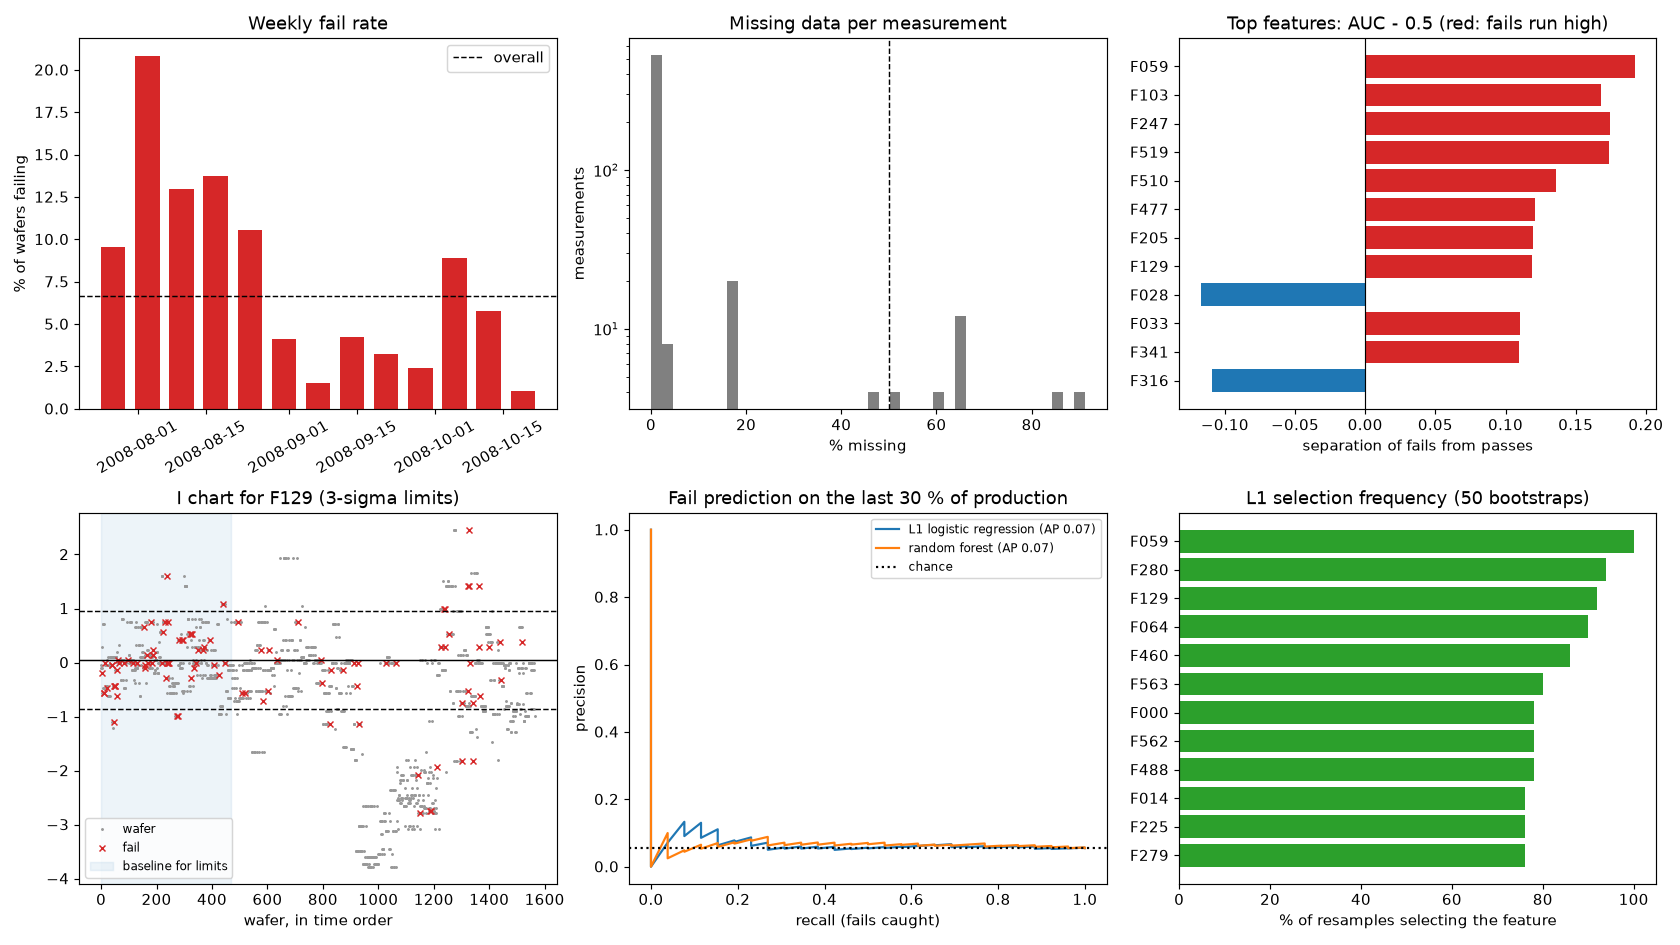
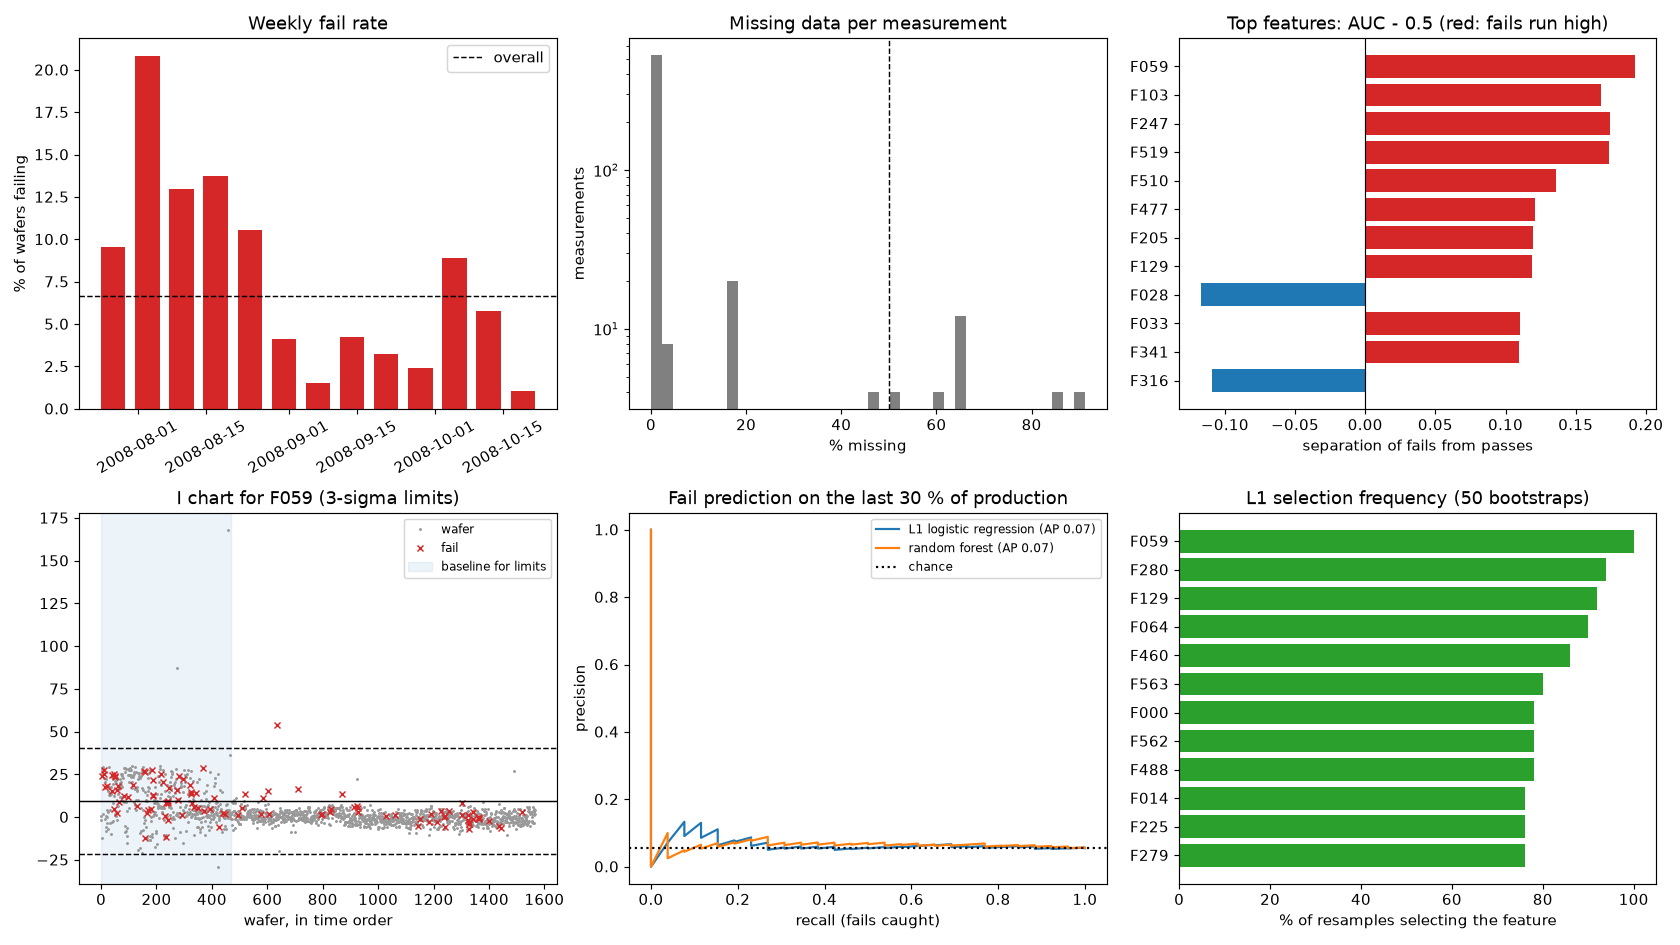
Use screening only when models have no forward skill; drift notes

diff --git a/run_all.py b/run_all.py
@@ -55,6 +55,13 @@ for c in top:
         fo = "-" if pd.isna(r.fail_rate_ooc) else f"{100 * r.fail_rate_ooc:.1f} %"
         print(f"  {c:8s} {100 * r.ooc_rate:13.1f} % {fo:>19s} {100 * r.fail_rate_in:19.1f} %")
 
+drifted = [c for c in top if c in P.index and P.loc[c, "ooc_rate"] > 0.25]
+if drifted:
+    print(f"  {len(drifted)} of the top {len(top)} are out of control on more than 25 % of later wafers: the process moved away "
+          "from its baseline after the first 30 % of production")
+early, late = y.iloc[: int(0.3 * len(y))].mean(), y.iloc[int(0.3 * len(y)):].mean()
+print(f"  fail rate in the baseline period {100 * early:.1f} % vs. after it {100 * late:.1f} %")
+
 print("\n[4  Predicting fails: train on the first 70 % of production, test on the last 30 %]")
 cut = int(0.7 * len(y))
 Xtr, Xte, ytr, yte = X[cols].iloc[:cut], X[cols].iloc[cut:], y.iloc[:cut], y.iloc[cut:]
@@ -74,16 +81,28 @@ sel = A.bootstrap_selection(Xtr, ytr, cols, n_boot=args.boot)
 print(f"  L1 selection stability over {args.boot} bootstrap resamples: "
       + ", ".join(f"{c} {100 * v:.0f} %" for c, v in sel.head(6).items()))
 
-print("\n[5  Suspects: flagged by at least two of: screening q < 0.05, L1 picked in >= 50 % of bootstraps, permutation importance >= 10 % of the top]")
+best = res[best_name]
+skilful = best["pr_auc"] >= 1.5 * yte.mean() and best["roc_auc"] >= 0.6
+if not skilful:
+    print(f"  the models barely beat chance on later wafers (best ROC-AUC {best['roc_auc']:.2f}, PR-AUC {best['pr_auc']:.3f} "
+          f"vs {yte.mean():.3f}): pass/fail patterns from early production do not carry forward, so the model-based "
+          "rankings are not used as evidence below")
+
+if skilful:
+    print("\n[5  Suspects: flagged by at least two of: screening q < 0.05, L1 picked in >= 50 % of bootstraps, permutation importance >= 10 % of the top]")
+else:
+    print("\n[5  Suspects: screening only (q < 0.05, top 10 by p), because the models had no forward skill]")
 votes = {}
-for c in S[S["q"] < 0.05]["feature"].head(20):                 # significant after FDR correction
+for c in S[S["q"] < 0.05]["feature"].head(20 if skilful else 10):   # significant after FDR correction
     votes.setdefault(c, []).append("screening")
-for c in sel[sel >= 0.5].index:                                   # picked in at least half the bootstraps
-    votes.setdefault(c, []).append("stable L1")
-for c, v in imp.items():                                          # at least 10 % of the top importance
-    if v > 0 and v >= 0.1 * imp.max():
-        votes.setdefault(c, []).append("permutation")
-suspects = sorted([c for c, v in votes.items() if len(v) >= 2], key=lambda c: (-len(votes[c]), S.set_index("feature").loc[c, "p"] if c in set(S["feature"]) else 1))
+if skilful:
+    for c in sel[sel >= 0.5].index:                               # picked in at least half the bootstraps
+        votes.setdefault(c, []).append("stable L1")
+    for c, v in imp.items():                                      # at least 10 % of the top importance
+        if v > 0 and v >= 0.1 * imp.max():
+            votes.setdefault(c, []).append("permutation")
+need = 2 if skilful else 1
+suspects = sorted([c for c, v in votes.items() if len(v) >= need], key=lambda c: (-len(votes[c]), S.set_index("feature").loc[c, "p"] if c in set(S["feature"]) else 1))
 St = S.set_index("feature")
 rho = X[suspects].corr(method="spearman") if suspects else None
 proxy = {}
@@ -98,7 +117,7 @@ for k, c in enumerate(suspects):
 primary = [c for c in suspects if c not in proxy]
 print(f"  independent suspects after grouping correlated sensors: {', '.join(primary) if primary else 'none'}")
 if not suspects:
-    print("  none: no feature was flagged by two methods")
+    print("  none: no feature met the rule")
 
 FAILED = False
 planted = Path(args.data) / "planted.json"
@@ -115,14 +134,18 @@ lines = [f"# SECOM yield root-cause report", "",
          f"{cs['kept']} of {cs['features']} measurements usable after removing {cs['too_missing']} mostly-missing and {cs['constant']} constant ones.", "",
          "## In plain words", ""]
 if primary:
-    lines += [f"Out of {len(S)} measurements, **{len(primary)}** independent ones stand out by more than one method: "
+    lines += [f"Out of {len(S)} measurements, **{len(primary)}** independent ones stand out "
+              + ("by more than one method: " if skilful else "in the pass/fail screening: ")
               + ", ".join(f"**{c}** (fails run {St.loc[c, 'fails_run']})" for c in primary) + ". "
               + (f"{len(proxy)} more move together with these and are probably the same causes seen by another sensor. " if proxy else "")
               + 
               "These are the parameters to check first in the tool logs and maintenance records for the affected period. "
               "This is statistical evidence, not proof of cause; a controlled experiment (DOE) on the suspected parameters would confirm it.", ""]
 lines += [f"A model trained on the first 70 % of production and tested on the last 30 % ranks wafers so that flagging the top 10 % "
-          f"catches **{100 * res[best_name]['recall_at_10']:.0f} %** of fails ({best_name}, PR-AUC {res[best_name]['pr_auc']:.3f} vs {yte.mean():.3f} for chance).", "",
+          f"catches **{100 * res[best_name]['recall_at_10']:.0f} %** of fails ({best_name}, PR-AUC {res[best_name]['pr_auc']:.3f} vs {yte.mean():.3f} for chance)."
+          + ("" if skilful else " That is close to chance: the patterns behind early failures did not carry forward"
+             + (", and the SPC charts show the process moving after the baseline period. Re-baselining the control limits and "
+                "monitoring the suspects going forward is the practical next step." if drifted else ".")), "",
           "## Top features by pass/fail screening", "", "| Feature | p | q (FDR) | AUC | Fails run |", "|---|---|---|---|---|"]
 lines += [f"| {r.feature} | {r.p:.2e} | {r.q:.3f} | {r.auc:.3f} | {r.fails_run} |" for _, r in S.head(10).iterrows()]
 Path("report.md").write_text("\n".join(lines) + "\n")

diff --git a/README.md b/README.md
@@ -57,6 +57,8 @@ Root-cause analysis on the **UCI SECOM dataset**: 1,567 wafers from a real semic
   F129              58.4 %               3.8 %                 4.8 %
   F028              63.2 %               3.9 %                 4.7 %
   F033              28.5 %               6.1 %                 3.4 %
+  8 of the top 10 are out of control on more than 25 % of later wafers: the process moved away from its baseline after the first 30 % of production
+  fail rate in the baseline period 12.3 % vs. after it 4.2 %
 
 [4  Predicting fails: train on the first 70 % of production, test on the last 30 %]
   train 1096 wafers (78 fails), test 471 wafers (26 fails); a random guess scores PR-AUC 0.055
@@ -64,20 +66,20 @@ Root-cause analysis on the **UCI SECOM dataset**: 1,567 wafers from a real semic
   random forest            ROC-AUC 0.569  PR-AUC 0.069  fails caught when flagging the top 10 % of wafers: 12 %
   permutation importance (L1 logistic regression, drop in PR-AUC when a feature is shuffled): F129 +0.014, F279 +0.006, F090 +0.005, F510 +0.003, F117 +0.003, F460 +0.003
   L1 selection stability over 50 bootstrap resamples: F059 100 %, F280 94 %, F129 92 %, F064 90 %, F460 86 %, F563 80 %
+  the models barely beat chance on later wafers (best ROC-AUC 0.53, PR-AUC 0.070 vs 0.055): pass/fail patterns from early production do not carry forward, so the model-based rankings are not used as evidence below
 
-[5  Suspects: flagged by at least two of: screening q < 0.05, L1 picked in >= 50 % of bootstraps, permutation importance >= 10 % of the top]
-  F129: screening, stable L1, permutation; fails run high (median 0 vs -0.1419), AUC 0.619
-  F059: screening, stable L1; fails run high (median 5.522 vs 0.7223), AUC 0.692
-  F510: screening, permutation; fails run high (median 58.23 vs 46.38), AUC 0.636
-  F033: screening, stable L1; fails run high (median 8.894 vs 8.766), AUC 0.611
-  F316: screening, permutation; fails run low (median 5.531 vs 5.862), AUC 0.391
-  F021: screening, stable L1; fails run high (median -5447 vs -5529), AUC 0.603
-  F460: stable L1, permutation; fails run high (median 27.76 vs 26.08), AUC 0.576
-  F279: stable L1, permutation; fails run low (median 0.03385 vs 0.0373), AUC 0.430
-  F090: stable L1, permutation; fails run low (median 8746 vs 8836), AUC 0.437
-  F117: stable L1, permutation; fails run low (median 58.46 vs 58.55), AUC 0.445
-  F486: stable L1, permutation; fails run high (median 267.8 vs 249), AUC 0.542
-  independent suspects after grouping correlated sensors: F129, F059, F510, F033, F316, F021, F460, F279, F090, F117, F486
+[5  Suspects: screening only (q < 0.05, top 10 by p), because the models had no forward skill]
+  F059: screening; fails run high (median 5.522 vs 0.7223), AUC 0.692
+  F103: screening; fails run high (median -0.0082 vs -0.0102), AUC 0.668
+  F247: screening; fails run high (median 0.0421 vs 0.0262), AUC 0.675
+  F519: screening; fails run high (median 9.052 vs 5.633), AUC 0.674; moves with F247 (Spearman +1.00), likely the same underlying cause
+  F510: screening; fails run high (median 58.23 vs 46.38), AUC 0.636; moves with F103 (Spearman +0.63), likely the same underlying cause
+  F477: screening; fails run high (median 6.12 vs 5.191), AUC 0.621
+  F205: screening; fails run high (median 9.16 vs 7.66), AUC 0.619; moves with F477 (Spearman +1.00), likely the same underlying cause
+  F129: screening; fails run high (median 0 vs -0.1419), AUC 0.619
+  F028: screening; fails run low (median 68.16 vs 69.24), AUC 0.383
+  F033: screening; fails run high (median 8.894 vs 8.766), AUC 0.611
+  independent suspects after grouping correlated sensors: F059, F103, F247, F477, F129, F028, F033
 
 wrote report.md
 saved results.png

diff --git a/report.md b/report.md
@@ -4,9 +4,9 @@
 
 ## In plain words
 
-Out of 446 measurements, **11** independent ones stand out by more than one method: **F129** (fails run high), **F059** (fails run high), **F510** (fails run high), **F033** (fails run high), **F316** (fails run low), **F021** (fails run high), **F460** (fails run high), **F279** (fails run low), **F090** (fails run low), **F117** (fails run low), **F486** (fails run high). These are the parameters to check first in the tool logs and maintenance records for the affected period. This is statistical evidence, not proof of cause; a controlled experiment (DOE) on the suspected parameters would confirm it.
+Out of 446 measurements, **7** independent ones stand out in the pass/fail screening: **F059** (fails run high), **F103** (fails run high), **F247** (fails run high), **F477** (fails run high), **F129** (fails run high), **F028** (fails run low), **F033** (fails run high). 3 more move together with these and are probably the same causes seen by another sensor. These are the parameters to check first in the tool logs and maintenance records for the affected period. This is statistical evidence, not proof of cause; a controlled experiment (DOE) on the suspected parameters would confirm it.
 
-A model trained on the first 70 % of production and tested on the last 30 % ranks wafers so that flagging the top 10 % catches **15 %** of fails (L1 logistic regression, PR-AUC 0.070 vs 0.055 for chance).
+A model trained on the first 70 % of production and tested on the last 30 % ranks wafers so that flagging the top 10 % catches **15 %** of fails (L1 logistic regression, PR-AUC 0.070 vs 0.055 for chance). That is close to chance: the patterns behind early failures did not carry forward, and the SPC charts show the process moving after the baseline period. Re-baselining the control limits and monitoring the suspects going forward is the practical next step.
 
 ## Top features by pass/fail screening
 
